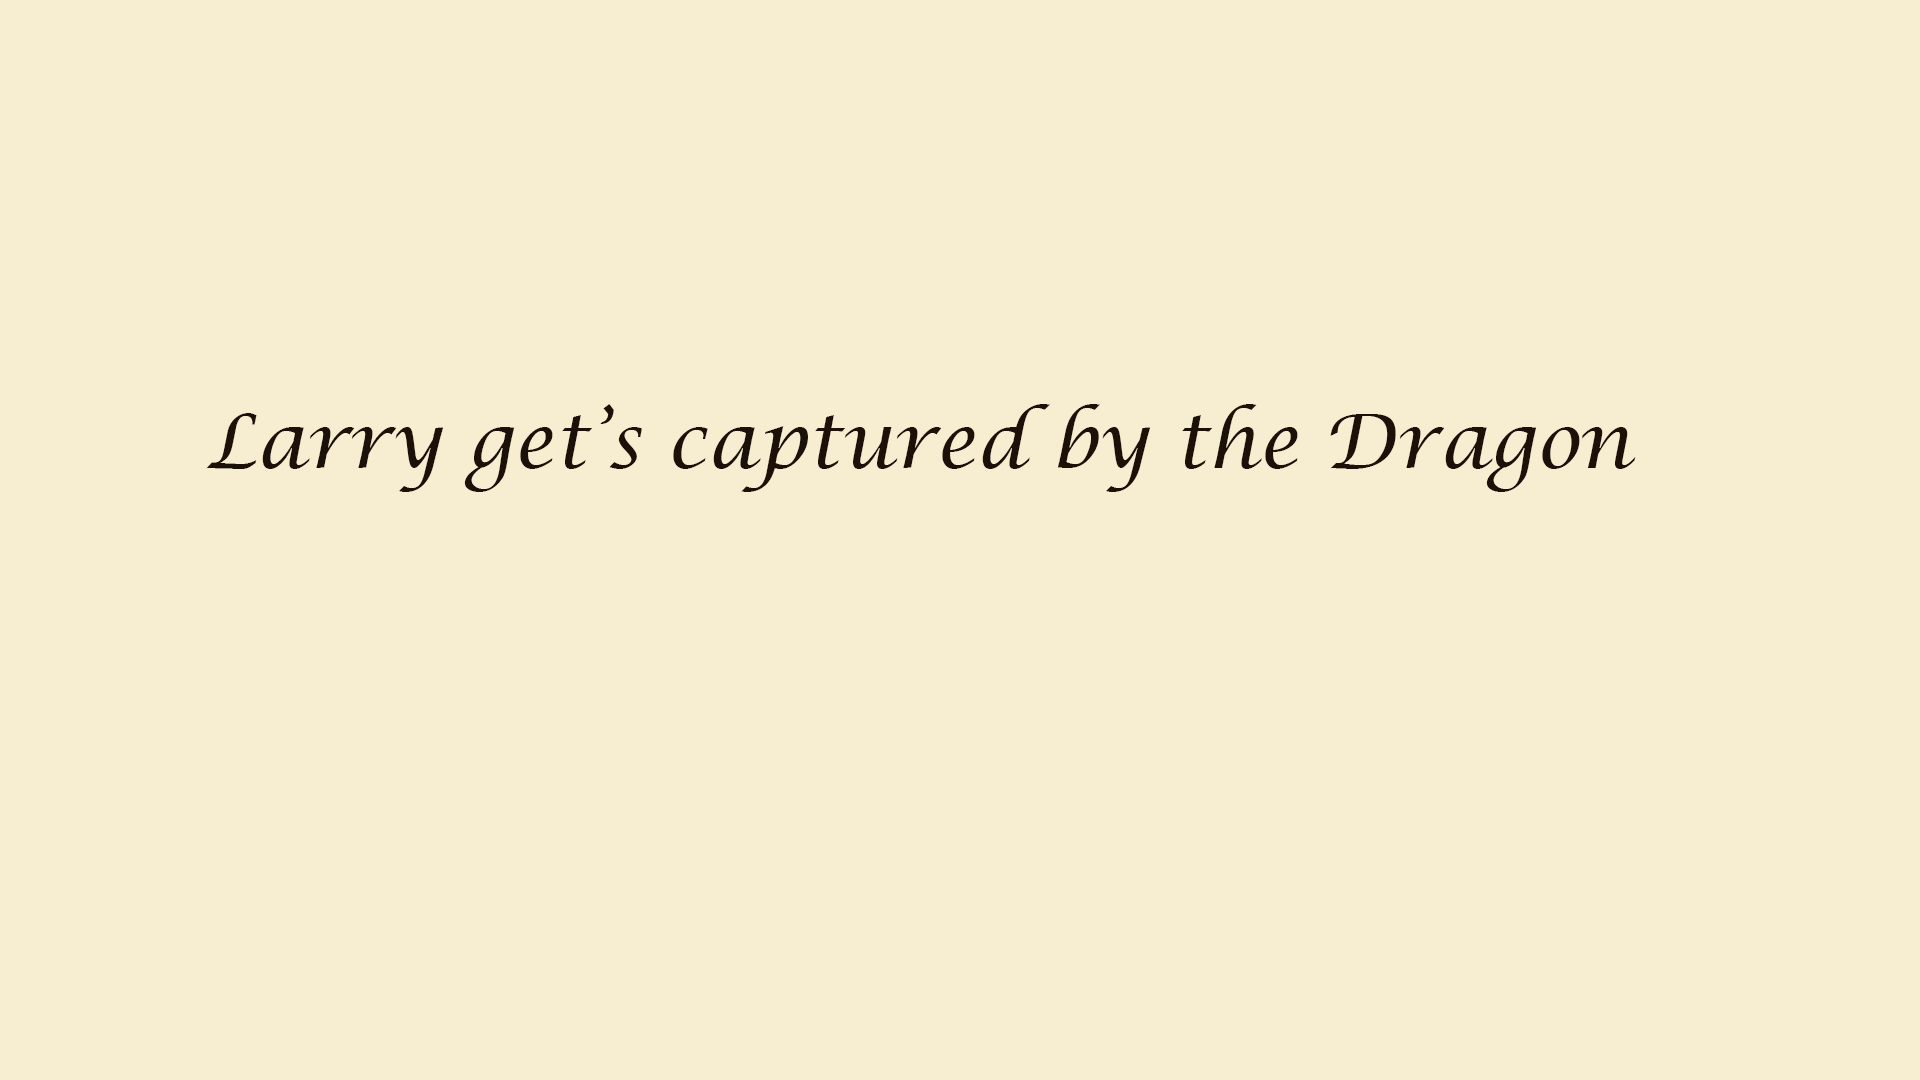
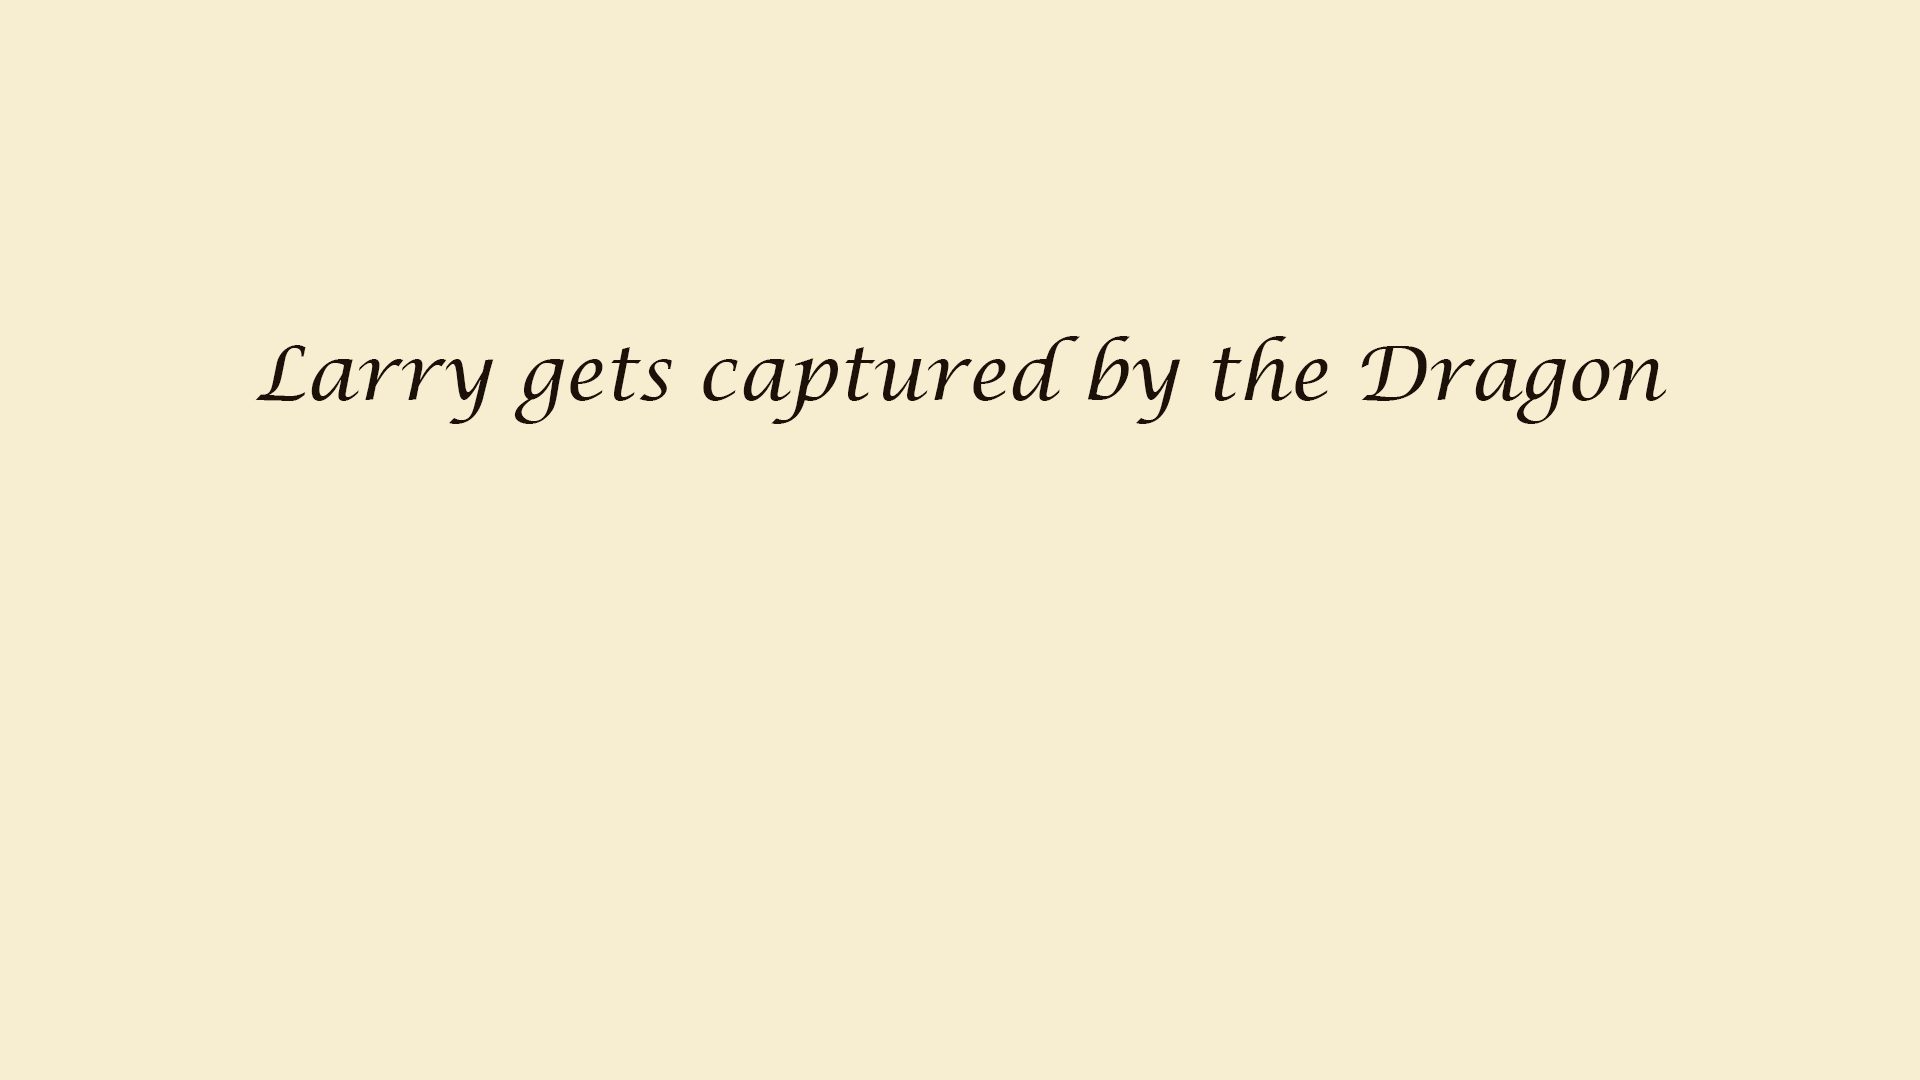
Kleine changes
Thumbstick Left voor conversations werkend gemaakt. Conversation Keys.C aanroep verwijderd. Spelling correctie Larry gets captured gedaan

Changed region(s): [[0.0938, 0.3056, 0.875, 0.4583]]

diff --git a/FullBrickEpicDungeon/FullBrickEpicDungeon/Game Files/HUD/Conversation.cs b/FullBrickEpicDungeon/FullBrickEpicDungeon/Game Files/HUD/Conversation.cs
@@ -172,7 +172,7 @@ class Conversation : GameObjectList
         }
 
         // Moves the marker up or down depending on the key that was pressed
-        if (inputHelper.KeyPressed(Keys.Down) || inputHelper.ButtonPressed(1, Buttons.DPadDown))
+        if (inputHelper.KeyPressed(Keys.Down) || inputHelper.ButtonPressed(1, Buttons.DPadDown) || inputHelper.MenuDirection(1,false,true).Y < 0)
         {
             if (marker.Position.Y < bottomChoiceHeight + offsetMarker)
             {
@@ -180,7 +180,7 @@ class Conversation : GameObjectList
             }
 
         }
-        if (inputHelper.KeyPressed(Keys.Up) || inputHelper.ButtonPressed(1, Buttons.DPadUp))
+        if (inputHelper.KeyPressed(Keys.Up) || inputHelper.ButtonPressed(1, Buttons.DPadUp) || inputHelper.MenuDirection(1, false, true).Y > 0)
         {
             if (marker.Position.Y > upperChoicePos.Y + offsetMarker)
             {

diff --git a/FullBrickEpicDungeon/FullBrickEpicDungeon/Game Files/Game states/PlayingState.cs b/FullBrickEpicDungeon/FullBrickEpicDungeon/Game Files/Game states/PlayingState.cs
@@ -36,8 +36,6 @@ class PlayingState : IGameLoopObject
             FullBrickEpicDungeon.DungeonCrawler.mouseVisible = true;
             GameEnvironment.GameStateManager.SwitchTo("pauseState");
         }
-        if (inputHelper.KeyPressed(Keys.C))
-            GameEnvironment.GameStateManager.SwitchTo("conversation");
     }
 
     public void Setup() { }
